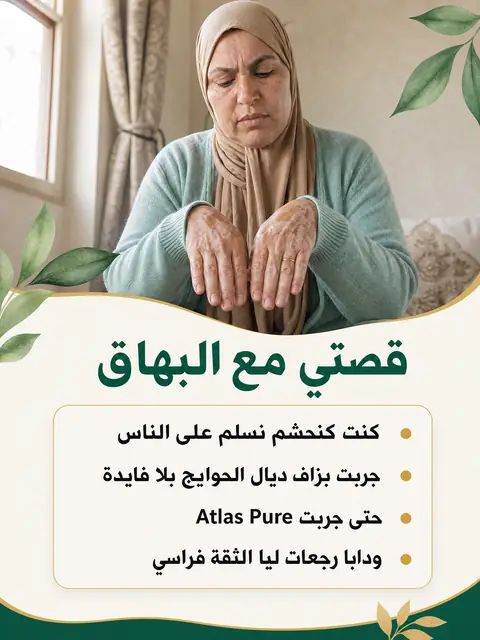
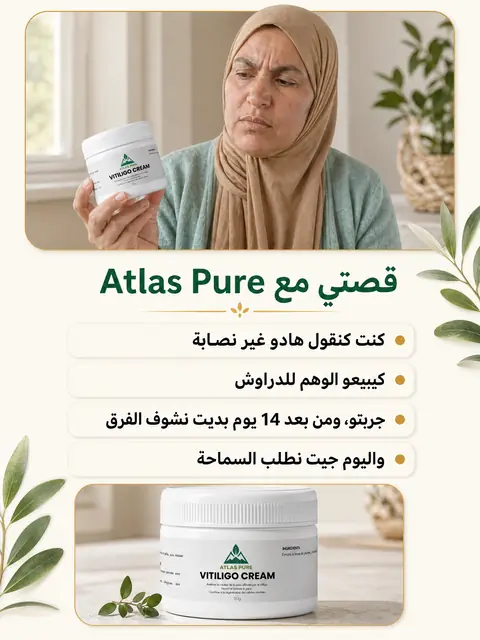
/lp/vitiligo-3: hero + story match the video hook (sceptic who came to apologise)

diff --git a/public/lp/vitiligo-3.html b/public/lp/vitiligo-3.html
@@ -3,7 +3,7 @@
 <head>
 <meta charset="utf-8">
 <meta name="viewport" content="width=device-width,initial-scale=1,viewport-fit=cover">
-<title>كنت كنخبي يدي من الناس… ودابا لا | أطلس بيور</title>
+<title>قلت عليهم نصابة… واليوم جيت نطلب السماحة | أطلس بيور</title>
 <meta name="description" content="كريم Atlas Pure للبرص والبهاق: مستخلصات نباتية وفيتامين D. الدفع عند الاستلام، التوصيل مجاني وضمان 30 يوم.">
 <meta name="robots" content="noindex,nofollow">
 <meta name="facebook-domain-verification" content="j1dr9vw0skp29k8xavuxlwd5w4tb9l">
@@ -111,12 +111,12 @@ tq.page()}(window,document);
 </head>
 <body>
 <div class="wrap">
-  <img src="/images/lp/vitiligo-3/w01_hero-750.webp" srcset="/images/lp/vitiligo-3/w01_hero-480.webp 480w, /images/lp/vitiligo-3/w01_hero-750.webp 750w, /images/lp/vitiligo-3/w01_hero-1080.webp 1080w" sizes="(max-width:540px) 100vw, 540px" width="750" height="1333" fetchpriority="high" alt="كنت كنخبي يدي من الناس… ودابا لا! قصة حقيقية مع Atlas Pure">
+  <img src="/images/lp/vitiligo-3/w01_hero-750.webp" srcset="/images/lp/vitiligo-3/w01_hero-480.webp 480w, /images/lp/vitiligo-3/w01_hero-750.webp 750w, /images/lp/vitiligo-3/w01_hero-1080.webp 1080w" sizes="(max-width:540px) 100vw, 540px" width="750" height="1333" fetchpriority="high" alt="قلت عليهم نصابة… واليوم جيت نطلب السماحة! قصة حقيقية مع Atlas Pure">
   <div class="badges"><span>الدفع عند الاستلام</span><span>التوصيل مجاني</span><span>ضمان 30 يوم</span></div>
   <a class="cta" href="#order" data-cta><svg viewBox="0 0 24 24" fill="none" stroke="currentColor" stroke-width="2.2" stroke-linecap="round" stroke-linejoin="round"><circle cx="9" cy="21" r="1.4"/><circle cx="19" cy="21" r="1.4"/><path d="M2.5 3h3l2.6 12.4a2 2 0 0 0 2 1.6h8.2a2 2 0 0 0 2-1.5L22 7H6.2"/></svg><span>اطلب دابا<small>الدفع عند الاستلام · التوصيل مجاني</small></span></a>
 
   <img loading="lazy" decoding="async" src="/images/lp/vitiligo-3/w02_results-750.webp" srcset="/images/lp/vitiligo-3/w02_results-480.webp 480w, /images/lp/vitiligo-3/w02_results-750.webp 750w, /images/lp/vitiligo-3/w02_results-1080.webp 1080w" sizes="(max-width:540px) 100vw, 540px" width="750" height="1000" alt="شوفي الفرق بعينيك: يدي قبل وبعد">
-  <img loading="lazy" decoding="async" src="/images/lp/vitiligo-3/w03_story-750.webp" srcset="/images/lp/vitiligo-3/w03_story-480.webp 480w, /images/lp/vitiligo-3/w03_story-750.webp 750w, /images/lp/vitiligo-3/w03_story-1080.webp 1080w" sizes="(max-width:540px) 100vw, 540px" width="750" height="1000" alt="قصتي مع البهاق">
+  <img loading="lazy" decoding="async" src="/images/lp/vitiligo-3/w03_story-750.webp" srcset="/images/lp/vitiligo-3/w03_story-480.webp 480w, /images/lp/vitiligo-3/w03_story-750.webp 750w, /images/lp/vitiligo-3/w03_story-1080.webp 1080w" sizes="(max-width:540px) 100vw, 540px" width="750" height="1000" alt="قصتي مع Atlas Pure">
   <a class="cta" href="#order" data-cta><svg viewBox="0 0 24 24" fill="none" stroke="currentColor" stroke-width="2.2" stroke-linecap="round" stroke-linejoin="round"><circle cx="9" cy="21" r="1.4"/><circle cx="19" cy="21" r="1.4"/><path d="M2.5 3h3l2.6 12.4a2 2 0 0 0 2 1.6h8.2a2 2 0 0 0 2-1.5L22 7H6.2"/></svg><span>بغيت نجرب Atlas Pure<small>ضمان استرجاع الفلوس 30 يوم</small></span></a>
   <img loading="lazy" decoding="async" src="/images/lp/vitiligo-3/w04_formula-750.webp" srcset="/images/lp/vitiligo-3/w04_formula-480.webp 480w, /images/lp/vitiligo-3/w04_formula-750.webp 750w, /images/lp/vitiligo-3/w04_formula-1080.webp 1080w" sizes="(max-width:540px) 100vw, 540px" width="750" height="1000" alt="التركيبة الثلاثية ديال Atlas Pure وكيفاش كنستعملو">
   <img loading="lazy" decoding="async" src="/images/lp/vitiligo/05_trust-750.webp" srcset="/images/lp/vitiligo/05_trust-480.webp 480w, /images/lp/vitiligo/05_trust-750.webp 750w, /images/lp/vitiligo/05_trust-1080.webp 1080w" sizes="(max-width:540px) 100vw, 540px" width="750" height="1000" alt="طلب بلا خوف: الدفع عند الاستلام، توصيل مجاني، ضمان 30 يوم">
